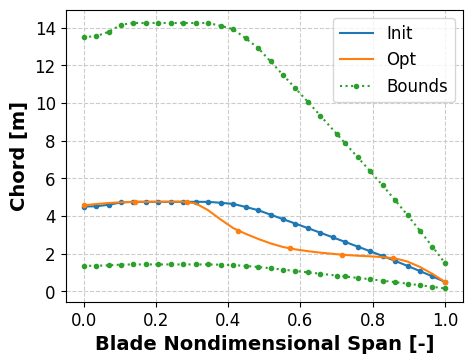
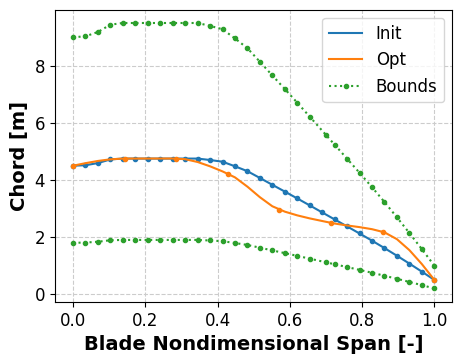
better aero tutorial and documentation

diff --git a/docs/examples/03_blade/tutorial.rst b/docs/examples/03_blade/tutorial.rst
@@ -23,7 +23,7 @@ Whenever conducting a design optimization, it is helpful to first run the starti
 Simple Aerodynamic Optimization
 ===============================
 
-The file, ``analysis_options_aero.yaml``, is used to run a blade twist and chord optimization. 
+The file, ``analysis_options_aero.yaml``, is used to run a blade twist and chord optimization together with rotor tip speed ratio. 
 This is activated by turning on the appropriate design variable flags in the file,
 
 .. literalinclude:: /../examples/03_blade/analysis_options_aero.yaml
@@ -31,24 +31,26 @@ This is activated by turning on the appropriate design variable flags in the fil
     :start-after: design_variables:
     :end-before: merit_figure:
 
-WISDEM can optimize blade twist either by assigning design variables to it, or in an inverse approach by setting a desired angle of attack. In the first case, we set :code:`flag` to True. In the latter case, we set :code:`flag` to False and we set :code:`inverse` to True. Here we pick the latter approach. In either case we should increase the number of the twist spline control points to 8. In the first case these points would be assigned to design variables and we should also adjust the indices controlling which of these control points can be varied by the optimizer, and which are instead locked. In the twist section, we would set :code:`index_start` to 2 (this means that the first 2 of 8 spanwise control points sections are locked), whereas we would let all other 6 spanwise control points in the hands of the optimizer. We do this by setting :code:`index_end` to 8. You can also adjust the maximum decrease and increase that the optimizer can apply to the twist in radians. If we activated the :code:`inverse` flag, :code:`n_opt` will be used to smoothened the twist distribution with a spline with this number of points along span to mimick manufacturability constraints.
+TSR is allowed to vary between 8 and 10. For twist, WISDEM can optimize blade twist either by assigning design variables to it, or in an inverse approach by setting a desired angle of attack. In the first case, we set :code:`flag` to True. In the latter case, we set :code:`flag` to False and we set :code:`inverse` to True. Here we pick the latter approach. In either case we should increase the number of the twist spline control points to 8. If we activated the :code:`inverse` flag, :code:`n_opt` will be used to smoothened the twist distribution with a spline with this number of points along span to mimick manufacturability constraints. Angle of attack can be set either to achieve maximum airfoil efficiency along span, in this case set the flag :code:`inverse_target: 'max_efficiency'`, or for a predefined margin to stall. In the latter case, use :code:`inverse_target: 'stall_margin'`. The value of margin to stall is set in the constraints.
+
+If you prefer to optimize directly with assigned design variables, turn `flag` to True and next adjust the indices controlling which of these control points can be varied by the optimizer, and which are instead locked. In the twist section, we would set :code:`index_start` to 2 (this means that the first 2 of 8 spanwise control points sections are locked), whereas we would let all other 6 spanwise control points in the hands of the optimizer. We do this by setting :code:`index_end` to 8. You can also adjust the maximum decrease and increase that the optimizer can apply to the twist in radians. 
 
 For chord, we set the :code:`flag` to True. Again, adjust :code:`n_opt`, :code:`index_start`, and :code:`index_end`. The chord bounds are set to be multiplicative starting from the initial chord. We don't optimize chord at blade tip (BEM isn't good at it), so set :code:`n_opt` to 8 and :code:`index_end` to 7.
 
-AEP is the quantity that we maximize. An alternative is power coefficient. In that case use :code:`Cp`
+Aero power coefficient Cp, computed by default at 5 m/s in region II, is the quantity that we maximize. An alternative is annual energy production. In that case use :code:`AEP`
 
 .. code-block:: yaml
 
-    merit_figure: AEP
+    merit_figure: Cp
 
-To better guide the optimization, we activate a stall margin constraint using the same *flag* type of setting, with a value of :math:`5^{\circ} deg \approx 0.087 rad`. We also often like to constrain chord to a maximum and set a constrain guiding the diameter of the blade root bolt circle (use this only if :code:`index_start` is set to 0 for the chord). The blade root moment coefficient can also constrained to design low induction rotors, look at DOI [10.1088/1742-6596/1618/4/042016](https://doi.org/10.1088/1742-6596/1618/4/042016) to learn more.
+We set a target stall margin using the same *flag* type of setting, with a value of :math:`5.7^{\circ} deg \approx 0.1 rad`. In case of direct optimization of twist, this value can also be activated as a constraint. We also often like to constrain chord to a maximum and we can set a constrain guiding the diameter of the blade root bolt circle (use this only if :code:`index_start` is set to 0 for the chord). The slope of the chord can be constrained so that chord is guaranteed to decrease monothonically along span after the section of max chord.  Lastly, the blade root moment coefficient can also constrained to design low induction rotors, look at DOI [10.1088/1742-6596/1618/4/042016](https://doi.org/10.1088/1742-6596/1618/4/042016) to learn more. Note that users can also take advantage of user defined constraints, see Example 11, and constrain any other quantity, such as rotor solidity.  
 
 .. literalinclude:: /../examples/03_blade/analysis_options_aero.yaml
     :language: yaml
     :start-after: constraints:
     :end-before: driver:
 
-The maximum iteration limit currently used in the file is 2, to keep the examples short.  However, if you want to see more progress in the optimization, change :code:`max_iter` to 20.
+The maximum iteration limit currently used in the file is 1, to keep the examples short.  However, if you want to see more progress in the optimization, change :code:`max_iter` to 20 (or 100, or more).
 
 .. literalinclude:: /../examples/03_blade/analysis_options_aero.yaml
     :language: yaml
@@ -68,7 +70,7 @@ or adjust the list of analysis options yaml files in blade_driver.py and run:
     $ python blade_driver.py
 
 or to run in parallel using multiple CPU cores (Mac or Linux only). 
-We have 8 chord design variables and we use forward finite differencing, so use up to 8 cores.
+We have 6 chord design variables and tsr, we use forward finite differencing, so use up to 7 cores. Remember to comment out all the unused analysis options in `blade_driver.py`!
 
 .. code-block:: bash
 
@@ -88,6 +90,13 @@ Once the optimization terminates, type in the terminal:
     $ compare_designs BAR_USC.yaml outputs_aero/blade_out.yaml --labels Init Opt
 
 This script compares the initial and optimized designs.
+
+Another good command is 
+
+.. code-block:: bash
+
+    $ python load_log.py
+
 Some screen output is generated, as well as plots (contained in the `outputs` folder), such as in :numref:`_fig_opt1_chord`.
 
 .. _fig_opt1_chord:
@@ -96,6 +105,29 @@ Some screen output is generated, as well as plots (contained in the `outputs` fo
     :align: center
 
     Initial versus optimized chord profiles
+
+.. _fig_opt1_twist:
+.. figure:: /images/blade/twist_opt.png
+    :height: 4in
+    :align: center
+
+    Initial versus optimized twist profiles
+
+As well as convergence plots in the `outputs_aero` folder:
+
+.. _fig_opt1_cp:
+.. figure:: /images/blade/CP_trend.png
+    :height: 4in
+    :align: center
+
+    Cp value being optimized
+
+.. _fig_opt1_tsr:
+.. figure:: /images/blade/tsr_trend.png
+    :height: 4in
+    :align: center
+
+    TSR value being optimized and converging to 8.5
 
 
 Simple Structural Optimization
